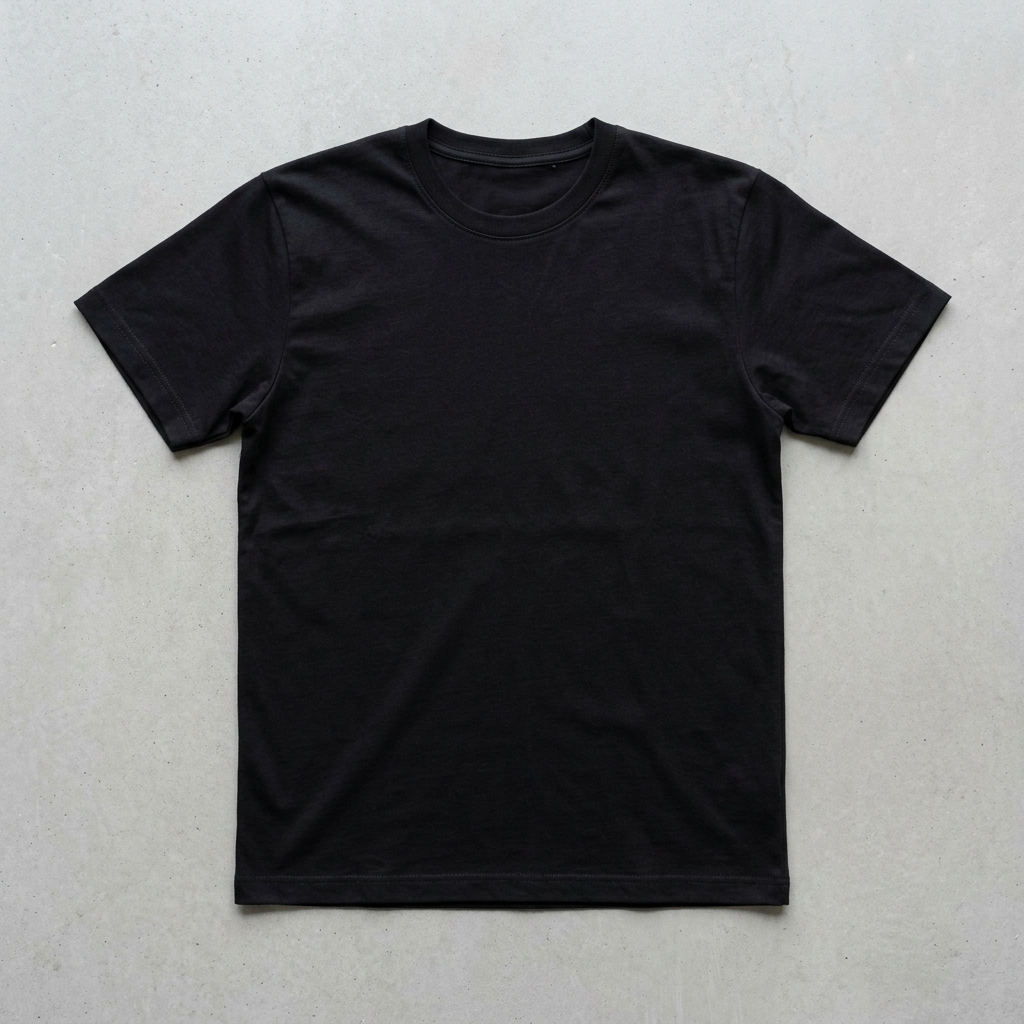
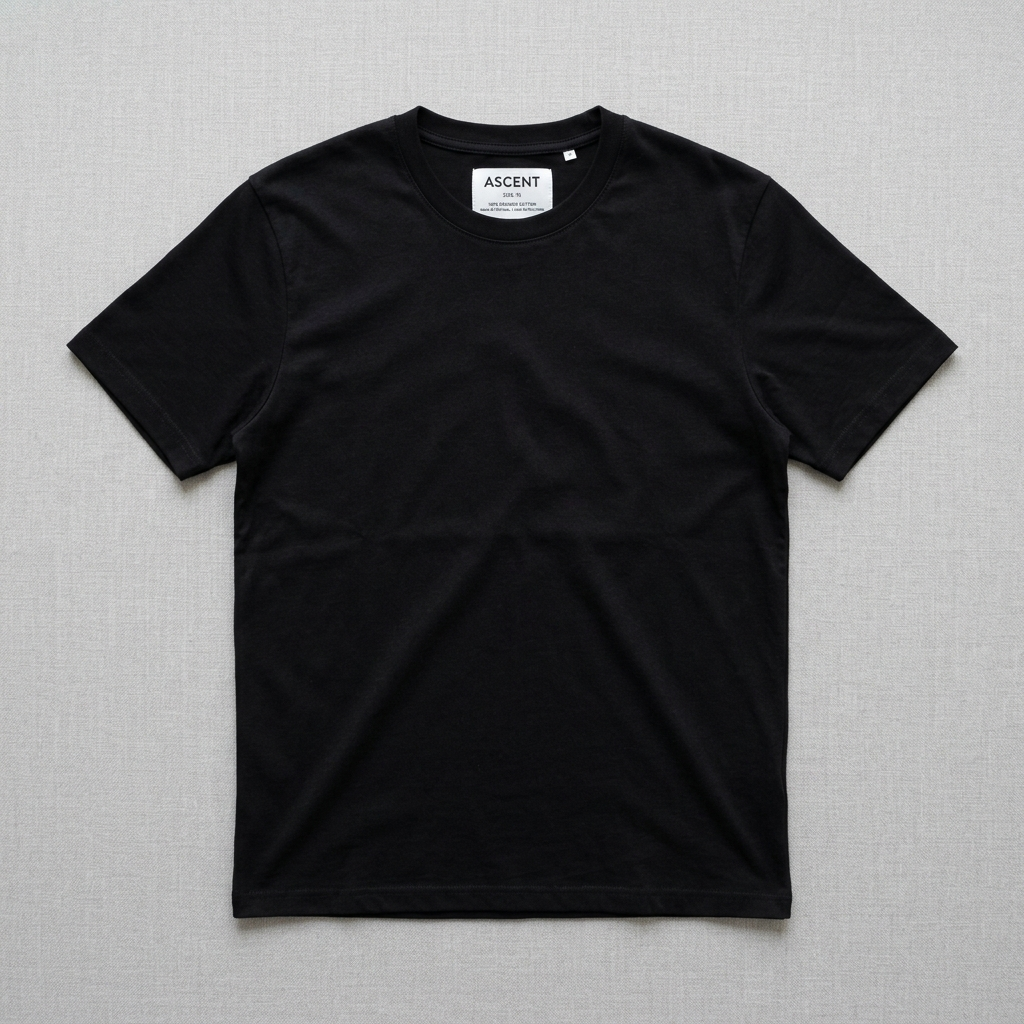
feat: Replace black t-shirt front view to show a prominent white tag through the neck hole

diff --git a/app_v2.js b/app_v2.js
@@ -711,7 +711,7 @@ document.addEventListener('DOMContentLoaded', () => {
                 container.querySelector('.base-shirt').src = `assets/${v.base}${suffix}.png`;
                 const maskedArea = container.querySelector('.masked-area');
                 if(maskedArea) {
-                    const maskUrl = `url('assets/${v.mask}${suffix}.png?v=19')`;
+                    const maskUrl = `url('assets/${v.mask}${suffix}.png?v=20')`;
                     maskedArea.style.maskImage = maskUrl;
                     maskedArea.style.webkitMaskImage = maskUrl;
                 }

diff --git a/process_front.py b/process_front.py
@@ -1,0 +1,29 @@
+import cv2
+import numpy as np
+import glob
+import shutil
+import rembg
+from PIL import Image
+import io
+
+brain_dir = '/Users/fds_2023_1/.gemini/antigravity/brain/a9dcbb1c-9e36-4eb9-ab73-db2c5b8d2201/'
+
+def extract_with_rembg(img_path, out_path):
+    with open(img_path, 'rb') as f:
+        input_data = f.read()
+    output_data = rembg.remove(input_data)
+    img = Image.open(io.BytesIO(output_data))
+    img_cv = np.array(img)
+    if img_cv.shape[2] == 4:
+        alpha = img_cv[:,:,3]
+        alpha = cv2.GaussianBlur(alpha, (15,15), 0)
+        _, alpha = cv2.threshold(alpha, 127, 255, cv2.THRESH_BINARY)
+        out = np.zeros_like(img_cv)
+        out[:,:,3] = alpha
+        cv2.imwrite(out_path, out)
+        print(f"rembg created mask {out_path}")
+
+fronts = glob.glob(brain_dir + 'front_black_white_tag_*.png')
+if fronts:
+    shutil.copy(fronts[-1], 'assets/front_black.png')
+    extract_with_rembg('assets/front_black.png', 'assets/mask_front_black.png')
